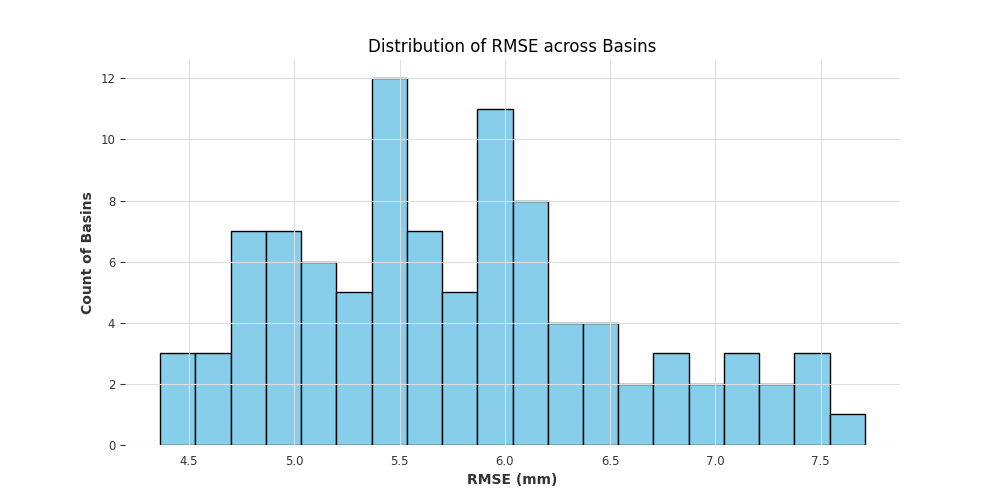
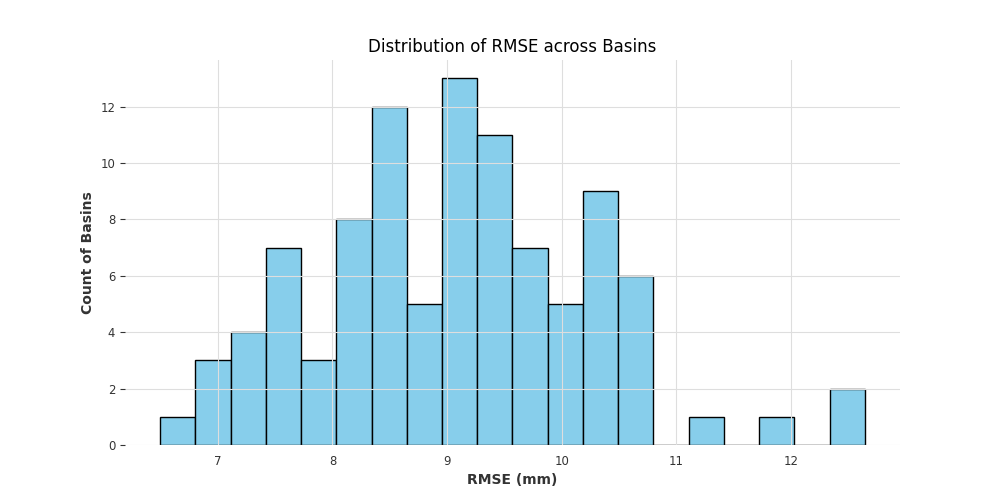
move into folders and update lstm feature importance

diff --git a/models/lstm/lstm_global.py b/models/lstm/lstm_global.py
@@ -13,9 +13,13 @@ from darts.models import BlockRNNModel
 from sklearn.metrics import mean_squared_error, mean_absolute_error
 from sklearn.preprocessing import MinMaxScaler
 
-ATTR_PATH = '../data_for_prediction/1_attributes/Catchment_attributes.csv'
+BASE_DIR = Path(__file__).resolve().parent
+DATA_DIR = BASE_DIR / ".." / "data" / "basins"
+DATA_DIR = DATA_DIR.resolve()
+ATTR_PATH = BASE_DIR / ".." / "data_for_prediction" / "1_attributes" / "Catchment_attributes.csv"
 MODEL_NAME = 'BlockRNN_LSTM'
-TARGET_VAR = 'prec'
+TARGET_VAR = "prec"
+
 # Select useful features. DO NOT use all columns (too much noise).
 # Good candidates: Area, Mean Elevation, Mean Slope, Forest Cover.
 selected_attrs = ['area_calc', 'elev_mean', 'slope_mean', 'forest_fra']
@@ -65,24 +69,28 @@ def load_data_into_df(filepath):
 
 
 def separate_target_variable(df):
-    # 1. Create the Target Series (What we want to predict)
-    target_series = TimeSeries.from_series(df[TARGET_VAR], freq='D')
+    # Target: daily precipitation
+    target_series = TimeSeries.from_series(df["prec"], freq="D")
 
-    # 2. Create the Covariates Series (All OTHER features)
-    # We drop the target column to create a dataframe of just features
-    covariates_df = df.drop(columns=[TARGET_VAR])
+    # Drop target + future leakage columns
+    DROP_COLS = [
+        "prec",
+        "prec_1d_ahead",
+        "prec_3d_ahead",
+        "prec_7d_ahead",
+    ]
 
-    # Convert features to Darts TimeSeries
-    covariates_series = TimeSeries.from_dataframe(covariates_df, freq='D')
+    covariates_df = df.drop(columns=DROP_COLS)
 
+    covariates_series = TimeSeries.from_dataframe(covariates_df, freq="D")
     return covariates_series, target_series
 
 
-def scale(covariates_series, target_series):
-    # Fit and transform
-    target_scaled = target_scaler.fit_transform(target_series)
-    cov_scaled = cov_scaler.fit_transform(covariates_series)
-    return target_scaled, cov_scaled
+def scale(cov_list, target_list):
+    target_scaler.fit(target_list)
+    cov_scaler.fit(cov_list)
+    return target_scaler.transform(target_list), cov_scaler.transform(cov_list)
+
 
 
 def calculate_metrics(day, data_points):
@@ -176,35 +184,16 @@ def calculate_permutation_importance(model, input_series, input_past_covariates,
     for feature in dynamic_features:
         if verbose: print(f"Testing importance of dynamic feature: {feature}")
 
-        # Create a deep copy of covariates to modify
-        shuffled_covs = [ts.copy() for ts in input_past_covariates]
-
-        # Shuffle this feature within each time series (breaks temporal structure)
-        for ts in shuffled_covs:
-            # Extract the array for this feature
-            feature_values = ts[feature].values()
-            # Shuffle in place
-            np.random.shuffle(feature_values)
-            # Update the TimeSeries with shuffled values
-            # (We use pandas mapping to handle Darts immutability easily)
-            df = ts.pd_dataframe()
-            df[feature] = feature_values
-            ts_new = TimeSeries.from_dataframe(df)
-            # Darts objects are tricky to mutate, simpler to overwrite list item if using index
-            # ideally we reconstruct, but for this snippet we assume standard TimeSeries
-            ts._series = df  # Hacky way to update, better to reconstruct:
-
         # Reconstruct properly to be safe
-        shuffled_covs_safe = []
+        shuffled_covs = []
         for ts in input_past_covariates:
-            df = ts.pd_dataframe().copy()
-            df[feature] = np.random.permutation(df[feature].values)
-            # Preserve static covariates if they exist on covariates (usually on target for BlockRNN)
-            new_ts = TimeSeries.from_dataframe(df)
-            shuffled_covs_safe.append(new_ts)
+            df = ts.to_dataframe().copy()
+            df[feature] = np.random.permutation(df[feature].to_numpy())
+            shuffled_covs.append(TimeSeries.from_dataframe(df, freq=ts.freq_str))
+
 
         # Predict with shuffled feature
-        pred = model.predict(n=7, series=input_series, past_covariates=shuffled_covs_safe, verbose=False)
+        pred = model.predict(n=7, series=input_series, past_covariates=shuffled_covs, verbose=False)
 
         # Calculate score
         errors = [rmse(val, p) for val, p in zip(val_targets, pred)]
@@ -302,10 +291,14 @@ if __name__ == '__main__':
         covariates_ts, target_ts = separate_target_variable(load_data_into_df(csv_path))
         all_cov_ts.append(covariates_ts)
         # MAGIC: makes model take static attributes take into account per basin
-        target_ts.with_static_covariates(static_cov_df)
+        target_ts = target_ts.with_static_covariates(static_cov_df)
         all_target_ts.append(target_ts)
 
     all_cov_ts_scaled, all_target_ts_scaled = scale(all_cov_ts, all_target_ts)
+    all_target_ts_scaled = [
+        t.with_static_covariates(orig.static_covariates)
+        for t, orig in zip(all_target_ts_scaled, all_target_ts)
+    ]
 
     # splits based on time so equal on any number of calls
     train_targets = [t.split_before(0.8)[0] for t in all_target_ts_scaled]
@@ -417,7 +410,9 @@ if __name__ == '__main__':
     print("\n--- Calculating Feature Importance ---")
     # Note: We use train_targets/train_covs because that is what you used in
     # model.predict() in your original script to generate the forecasts.
-    # We compare against val_targets (the ground truth for that window).
+        # We compare against val_targets (the ground truth for that window).
+    print("Dynamic covariates:", train_covs[0].components)
+    print("Static covariates:", train_targets[0].static_covariates.columns)
 
     imps = calculate_permutation_importance(
         model=model,
